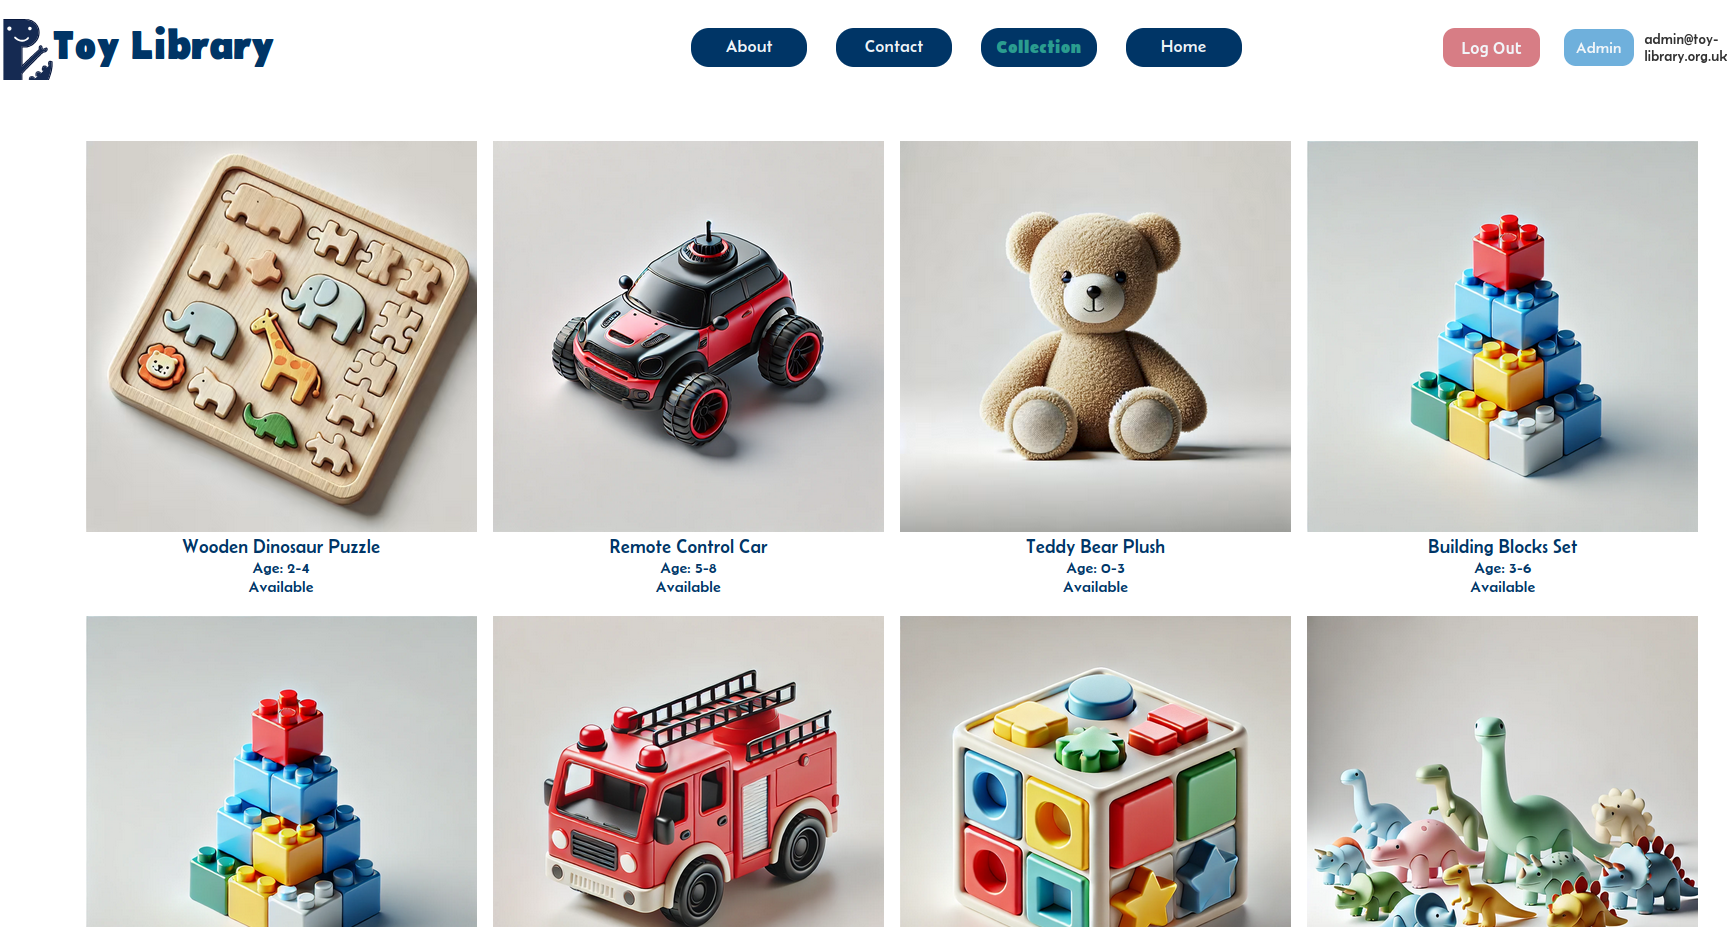
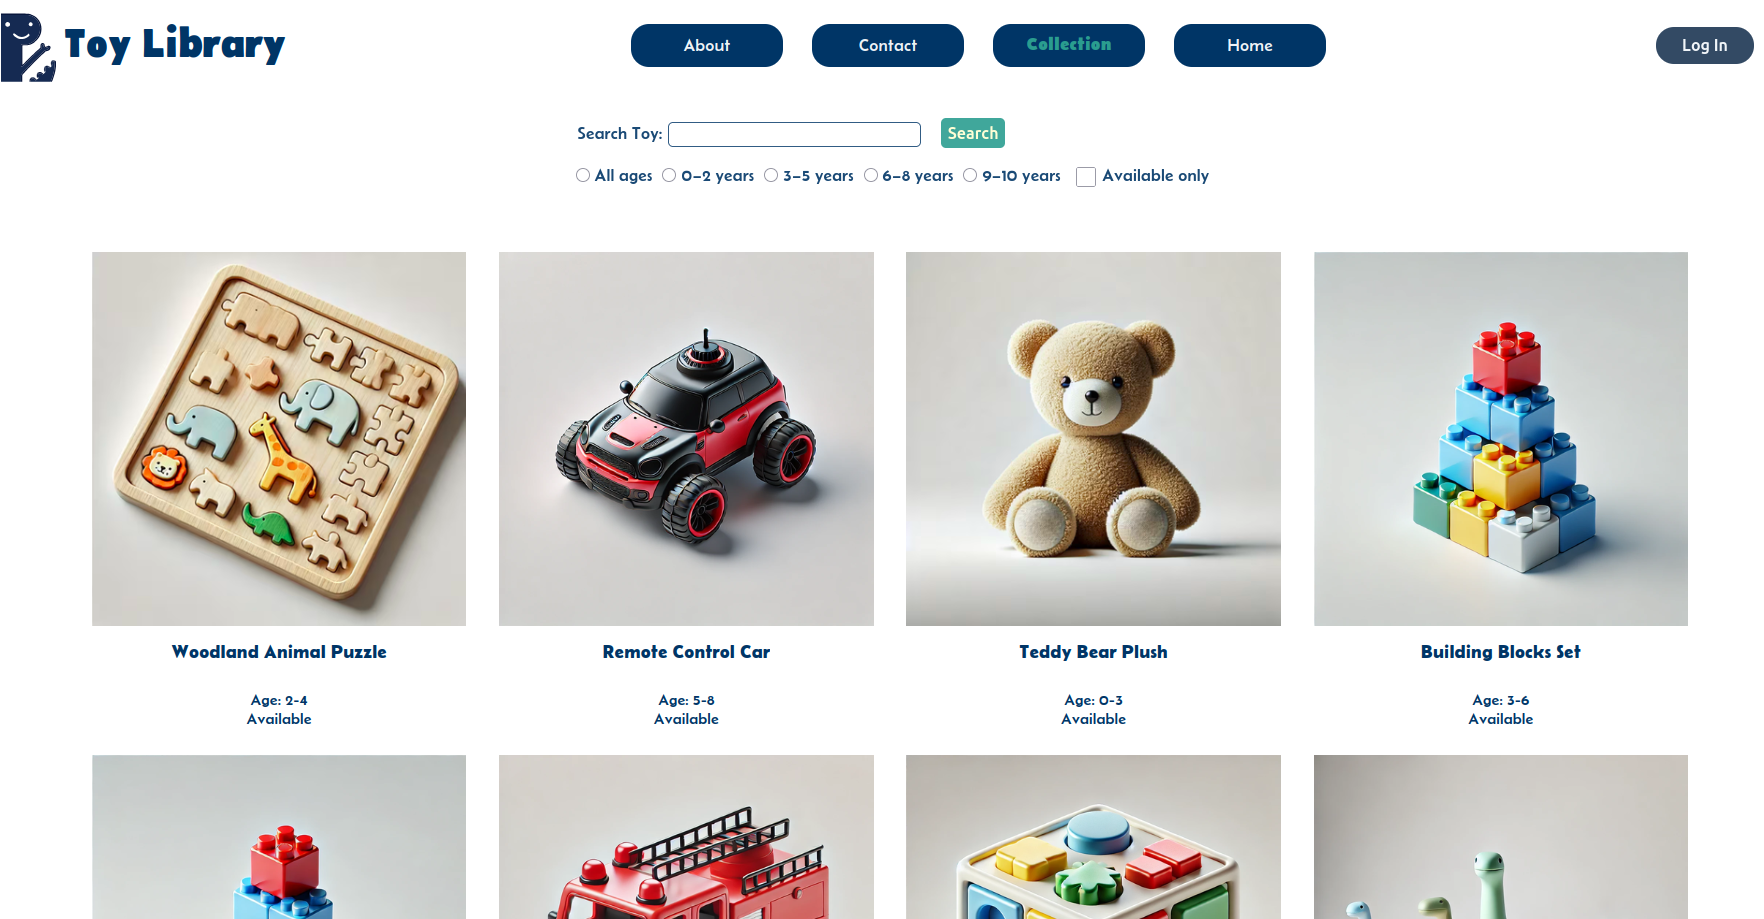
update README

diff --git a/README.md b/README.md
@@ -1,12 +1,16 @@
 # Toy Library
 
-### A full-stack toy lending platform that allows families to browse available toys, submit borrowing requests, and contact the library. Administrators can manage toys, review borrowing requests, and monitor activity through a protected dashboard.
+### A full-stack toy lending platform that allows families to browse and filter available toys, submit borrowing requests, and contact the library. Administrators can manage toys, review borrowing requests, and monitor activity through a protected dashboard.
+
 ---
+
 ## About The Project
 
-Toy Library was created to simulate a real-world toy lending service while providing a practical environment to develop and deploy a full-stack application.
+Toy Library was created to simulate a real-world toy lending service while providing a practical environment to design, develop, and deploy a full-stack application.
 
-The project focuses on inventory management, borrowing workflows, authentication, image uploads, and deployment to a production environment.
+The project focuses on inventory management, borrowing workflows, authentication, dynamic search and filtering, image uploads, and production deployment.
+
+Version 2.1 introduces improved toy discovery through pagination and filtering, alongside a migration of the backend from JavaScript to TypeScript.
 
 ---
 
@@ -19,6 +23,7 @@ Frontend: https://toylibrary.netlify.app/
 ## Portfolio Demo
 
 This application is a portfolio project and demonstration environment.
+
 Administrative functionality is protected. Some data may be periodically reset during development and testing.
 
 ---
@@ -31,24 +36,29 @@ Administrative functionality is protected. Some data may be periodically reset d
 </p>
 
 <p align="center">
+  <img src="./screenshot/pagenation.png" width="45%" alt="Toy Management Page">
   <img src="./screenshot/toy-management.png" width="45%" alt="Toy Management Page">
-  <img src="./screenshot/admin-dashboard.png" width="45%" alt="Admin Dashboard">
 </p>
 
 <p align="center">
-   <img src="./screenshot/homepage.png" width="70%" alt="Home Page">
+<img src="./screenshot/admin-dashboard.png" width="45%" alt="Admin Dashboard">
+  <img src="./screenshot/homepage.png" width="70%" alt="Home Page">
 </p>
 
 ---
 
 ## Features
 
-### Features (V2)
+### V2.1
 
 ### Public Features
 
 - Browse available toys
-- View toy details
+- Search toys by keyword
+- Filter toys by age range
+- Filter toys by availability
+- Paginated toy browsing
+- View individual toy details
 - Submit borrowing requests
 - Contact the toy library
 
@@ -58,12 +68,23 @@ Administrative functionality is protected. Some data may be periodically reset d
 - Protected admin routes
 - Dashboard with activity summary
 - View and manage borrowing requests
-- Approve or reject requests
-- Manage toy availability status
+- Approve or reject borrowing requests
+- Mark borrowing requests as completed
+- Automatically synchronise toy availability with borrowing status
 - View contact messages
 - Add new toys
 - Edit existing toys
 - Upload toy images using Cloudinary
+
+### V2.1 Technical Improvements
+
+- Migrated the Express backend from JavaScript to TypeScript
+- Added TypeScript typing for routes, request parameters, database interactions, and error handling
+- Added dynamic SQL filtering using parameterised queries
+- Reused filtering conditions for paginated results and total-count queries
+- Added `LIMIT` and `OFFSET` pagination to the toys API
+- Added overlapping age-range filtering
+- Added availability filtering
 
 ---
 
@@ -82,6 +103,7 @@ Administrative functionality is protected. Some data may be periodically reset d
 
 - Node.js
 - Express.js
+- TypeScript
 - MySQL
 
 ### Authentication
@@ -104,13 +126,19 @@ Administrative functionality is protected. Some data may be periodically reset d
 
 ```txt
 React + TypeScript (Netlify)
+
             ↓
-      Express API
+
+Express + TypeScript API
+
          (Railway)
+
             ↓
+
       MySQL (Aiven)
 
 Auth0 ───────┘
+
 Cloudinary ──┘
 ```
 
@@ -120,6 +148,7 @@ Cloudinary ──┘
 
 ```txt
 toy-library/
+
 ├── client/
 │   ├── src/
 │   ├── public/
@@ -127,8 +156,8 @@ toy-library/
 │
 ├── server/
 │   ├── routes/
-│   ├── db.js
-│   ├── server.js
+│   ├── db.ts
+│   ├── server.ts
 │   └── ...
 │
 └── netlify.toml
@@ -168,19 +197,60 @@ Stores enquiries submitted through the contact form.
 
 ### Pending
 
-Request has been submitted and awaits review.
+A borrowing request has been submitted and awaits review.
 
 ### Approved
 
-Request has been approved and the toy becomes unavailable.
+The request has been approved and the toy becomes unavailable.
 
 ### Rejected
 
-Request has been reviewed but not approved.
+The request has been reviewed but not approved.
 
 ### Completed
 
-Toy has been returned and becomes available again.
+The toy has been returned and becomes available again.
+
+---
+
+## Search, Filtering & Pagination
+
+The toys API supports multiple optional query parameters that can be combined dynamically.
+
+Examples include:
+
+```http
+GET /toys?page=1&limit=12
+```
+
+```http
+GET /toys?search=puzzle
+```
+
+```http
+GET /toys?age=3-5
+```
+
+```http
+GET /toys?available=true
+```
+
+Filters can also be combined:
+
+```http
+GET /toys?search=wooden&age=3-5&available=true&page=1&limit=12
+```
+
+The backend builds SQL conditions dynamically while keeping user input parameterised.
+
+The same filtering conditions are reused for both:
+
+- Retrieving the current page of toys
+- Calculating the total number of matching results
+
+This keeps pagination accurate when filters are applied.
+
+Age filtering uses overlapping ranges rather than requiring an exact match. For example, a toy suitable for ages `5-7` can appear when filtering for ages `6-8`.
 
 ---
 
@@ -195,7 +265,9 @@ Only authenticated users can access:
 - Borrow request management
 - Message management
 
-Backend routes are secured using JWT validation.
+Protected backend routes validate JWT access tokens before allowing administrative operations.
+
+Database queries that include user-controlled filtering values use parameterised SQL queries rather than interpolating input directly into SQL.
 
 ---
 
@@ -245,8 +317,6 @@ git clone https://github.com/yiyingko/Toy-Library.git
 cd Toy-Library
 ```
 
----
-
 ### Install frontend dependencies
 
 ```bash
@@ -261,15 +331,11 @@ cd ../server
 npm install
 ```
 
----
-
 ### Run backend
 
 ```bash
 npm run dev
 ```
-
----
 
 ### Run frontend
 
@@ -282,10 +348,20 @@ npm run dev
 
 ## API Endpoints
 
-### Get all toys
+### Get toys
 
 ```http
 GET /toys
+```
+
+Supports optional query parameters including:
+
+```txt
+search
+age
+available
+page
+limit
 ```
 
 ### Get toy by ID
@@ -315,13 +391,12 @@ Example request body:
 
 ## Future Improvements (V3)
 
-- Advanced toy search and filtering
-- Pagination
-- Demo user account with permissions
-- Email notifications
-- AI-assisted toy descriptions
-- Borrowing history
-- Enhanced analytics dashboard
+V3 is planned as a focused extension of the existing application rather than a major rebuild.
+
+- AI-assisted toy description generation
+- Limited-permission admin/demo access
+
+The AI feature will assist administrators when creating or editing toy descriptions, while limited admin permissions will make it possible to demonstrate protected functionality without exposing full administrative access.
 
 ---
 
@@ -329,13 +404,20 @@ Example request body:
 
 This project provided hands-on experience with:
 
-- Building a full-stack application using React and Express
+- Building a full-stack application using React, TypeScript, Node.js, and Express
+- Migrating an existing Express backend from JavaScript to TypeScript
+- Typing Express routes, request parameters, errors, and database interactions
 - Designing and querying relational databases with MySQL
+- Building dynamic SQL queries using optional filters
+- Keeping SQL queries parameterised while dynamically constructing conditions
+- Reusing query conditions for result retrieval and `COUNT(*)` pagination queries
+- Implementing pagination with `LIMIT` and `OFFSET`
+- Designing overlapping numeric range filtering
 - Authentication and route protection using Auth0
 - Image uploads and cloud storage with Cloudinary
 - Deploying production applications using Netlify and Railway
-- Debugging real-world deployment and environment configuration issues
-- Managing project development using Git branches and pull request workflows
+- Debugging production deployment and environment configuration issues
+- Managing development using Git branches and pull request workflows
 
 ---
 
